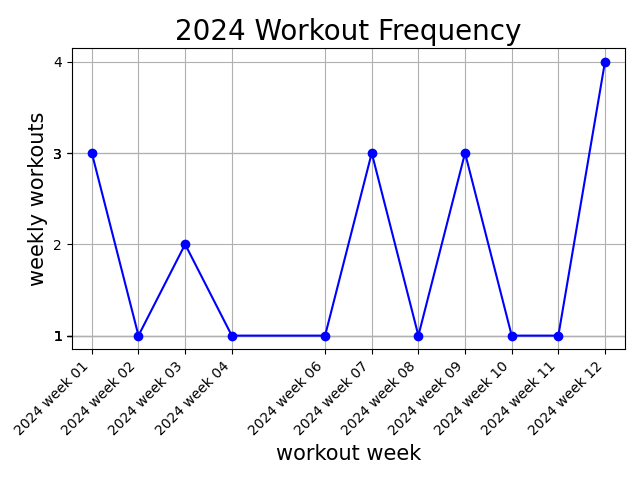
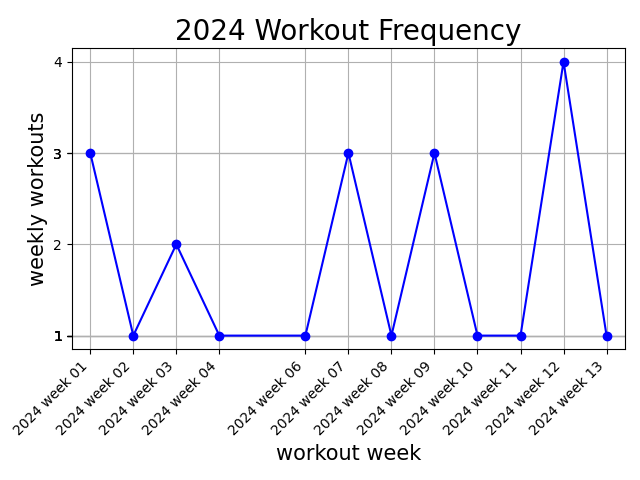
chore: add todays workout. Fix examples

diff --git a/project_docs/examples/STRENGTH.md b/project_docs/examples/STRENGTH.md
@@ -3,6 +3,6 @@ Each figure displays workout-date vs 1-rep-max estimate for different training p
 together with their regression fits/trendlines using 68 % confidence intervals.<br>
 (Each program is shown in the legend)
 
-|            ![fitted_data_deadlift](../img/real_fitted_data_deadlift_splines.png)            |      ![fitted_data_squat](../img/real_fitted_data_squat_splines.png)      |
+|            ![fitted_data_deadlift](../../img/real_fitted_data_deadlift_splines.png)            |      ![fitted_data_squat](../../img/real_fitted_data_squat_splines.png)      |
 | :--------------------------------------------------------------------------------------: | :--------------------------------------------------------------------: |
-| ![fitted_data_barbell_bench_press](../img/real_fitted_data_barbell_bench_press_splines.png) | ![fitted_data_seated_row](../img/real_fitted_data_seated_row_splines.png) |
+| ![fitted_data_barbell_bench_press](../../img/real_fitted_data_barbell_bench_press_splines.png) | ![fitted_data_seated_row](../../img/real_fitted_data_seated_row_splines.png) |

diff --git a/project_docs/examples/VOLUME.md b/project_docs/examples/VOLUME.md
@@ -4,4 +4,4 @@ using 68% confidence intervals. (Each program is shown in the legend)
 
 | barbell_bench_press_volume                                                              | squat_volume                                                              |
 | --------------------------------------------------------------------------------------- | ------------------------------------------------------------------------- |
-| <img src="../img/real_fitted_data_barbell_bench_press_gvt.png" width="400" height="400" /> | <img src="../img/real_fitted_data_squat_gvt.png" width="400" height="400" /> |
+| <img src="../../img/real_fitted_data_barbell_bench_press_gvt.png" width="400" height="400" /> | <img src="../../img/real_fitted_data_squat_gvt.png" width="400" height="400" /> |

diff --git a/project_docs/examples/EXAMPLES.md b/project_docs/examples/EXAMPLES.md
@@ -21,6 +21,7 @@ Each figure displays week vs number of workouts during that week.
 
 | ![January_2024](../../img/workout_duration_January_2024.png) | ![February_2024](../../img/workout_duration_February_2024.png) |
 | :----------: | :------: |
+| ![March_2024](../../img/workout_duration_March_2024.png) | ![April_2024](../../img/workout_duration_April_2024.png) |
 
 #### 2023:
 
